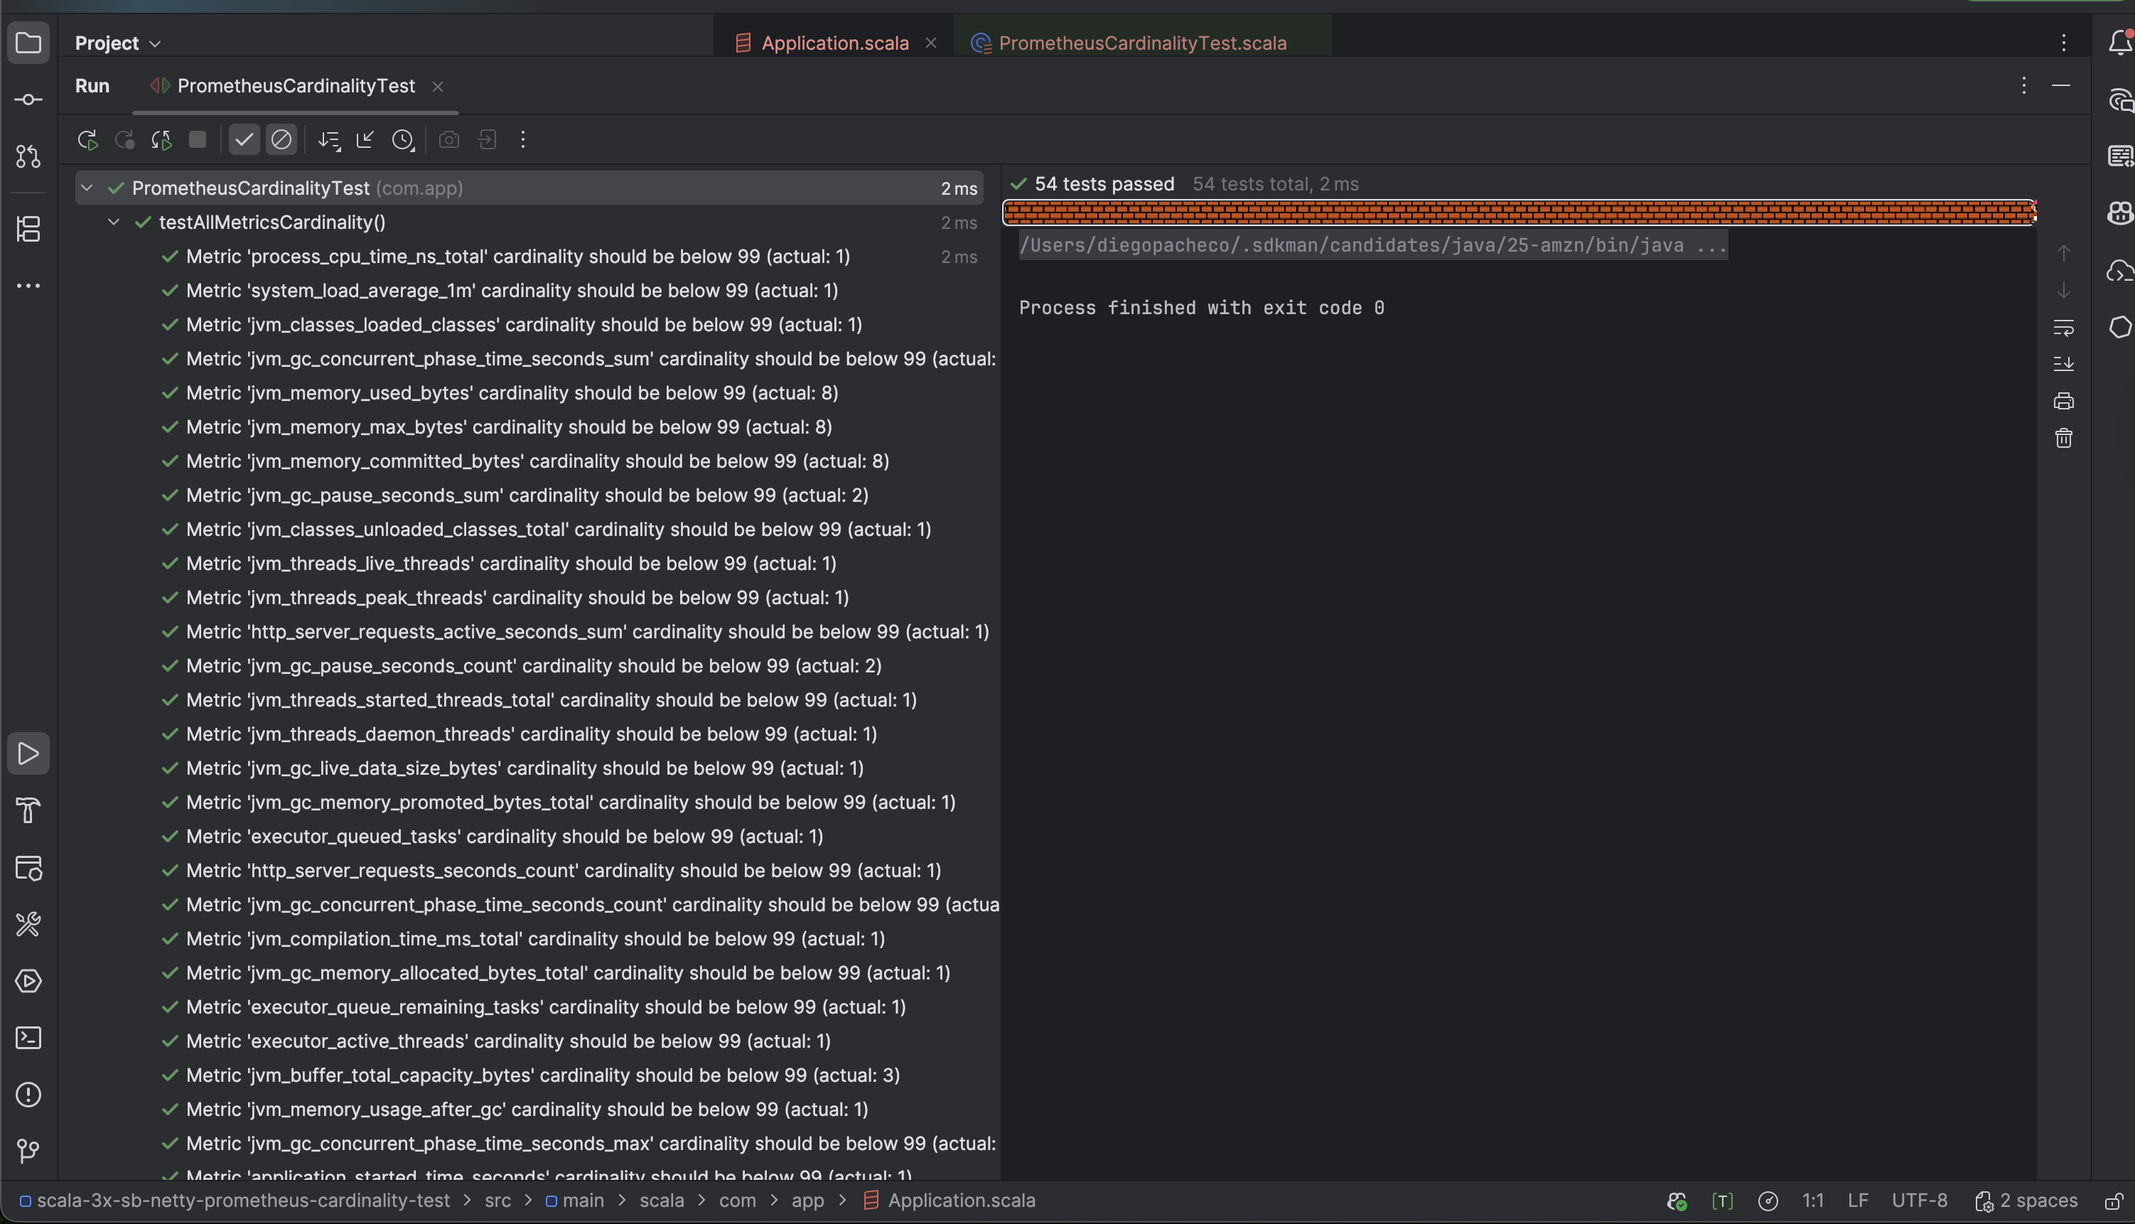
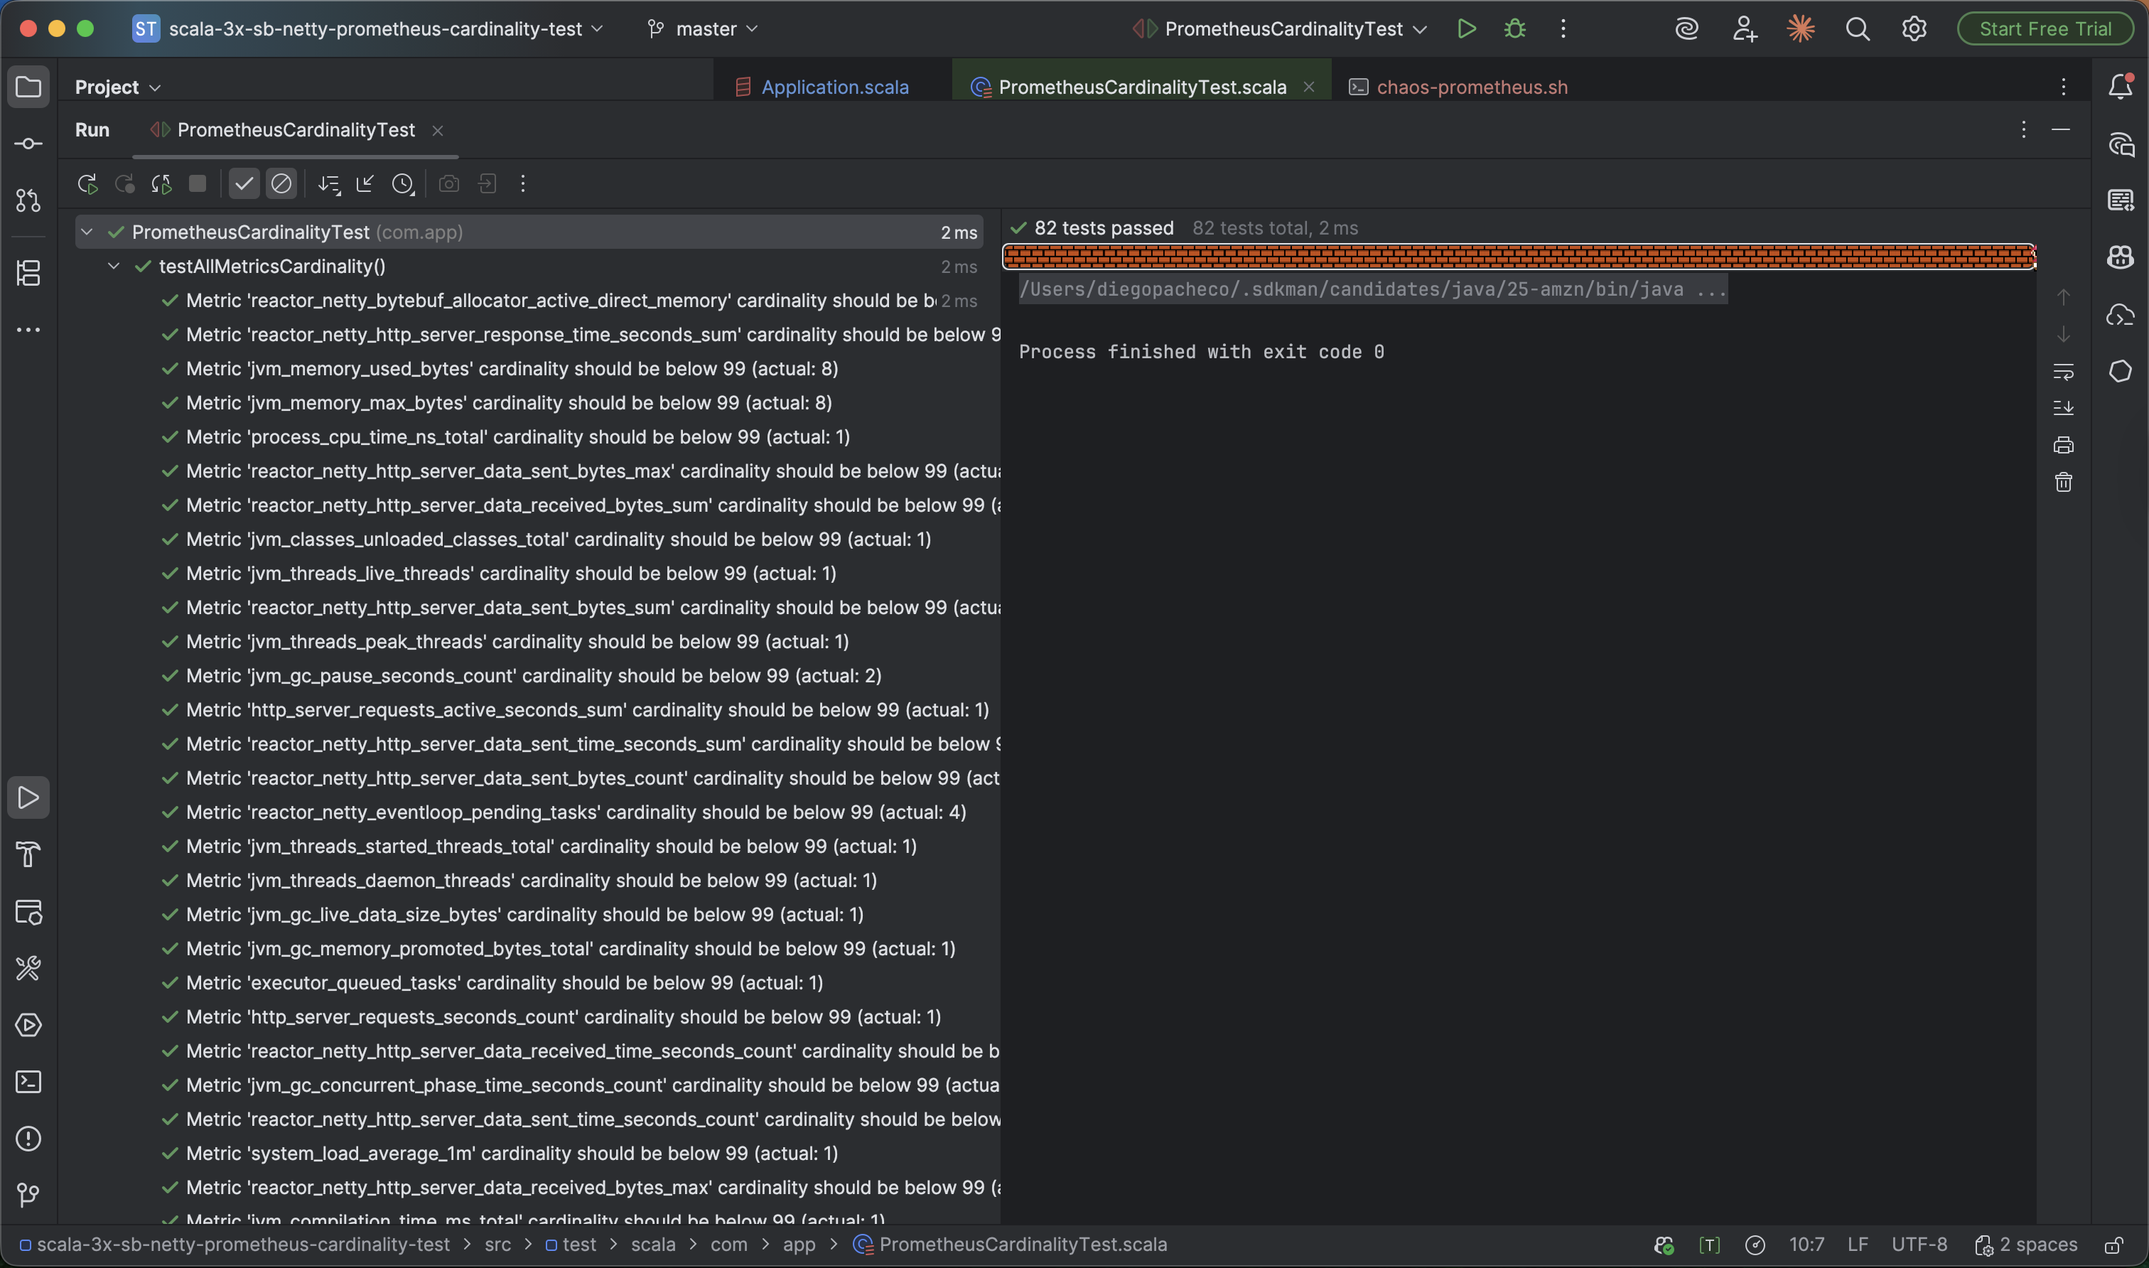
test metrics cardinality with dynamic tests

diff --git a/scala-3x-sb-netty-prometheus-cardinality-test/README.md b/scala-3x-sb-netty-prometheus-cardinality-test/README.md
@@ -1,3 +1,13 @@
+## Rationale
+
+IF you send too many high cardinality metrics to Prometheus, it will eventually crash consuming all memory.
+There is a Junit 5 dynamic tesat factory where:
+1. Call Prometheus endpoint in sprint to get all metrics
+2. Generate a test per mertric to check if the metric is acceptable cardinality where cardinality <= threshold(which is 99
+3. Profit - Now you can know if you will break prometheus before deploying anything.
+
+Tests is always the answer!
+
 ### Build
 
 ```
@@ -13,4 +23,289 @@ sbt run
 
 <img src="junit-dynamic-tests-cardinality.png" width="600" />
 
+### All Prometheus Metrics
 
+http://localhost:8081/prometheus
+```
+# HELP application_ready_time_seconds Time taken for the application to be ready to service requests
+# TYPE application_ready_time_seconds gauge
+application_ready_time_seconds{main_application_class="com.app.Application$package$"} 1.027
+# HELP application_started_time_seconds Time taken to start the application
+# TYPE application_started_time_seconds gauge
+application_started_time_seconds{main_application_class="com.app.Application$package$"} 1.025
+# HELP disk_free_bytes Usable space for path
+# TYPE disk_free_bytes gauge
+disk_free_bytes{path="/Users/diegopacheco/git/diegopacheco/scala-playground/scala-3x-sb-netty-prometheus-cardinality-test/."} 3.45157658624E12
+# HELP disk_total_bytes Total space for path
+# TYPE disk_total_bytes gauge
+disk_total_bytes{path="/Users/diegopacheco/git/diegopacheco/scala-playground/scala-3x-sb-netty-prometheus-cardinality-test/."} 3.99632932864E12
+# HELP executor_active_threads The approximate number of threads that are actively executing tasks
+# TYPE executor_active_threads gauge
+executor_active_threads{name="applicationTaskExecutor"} 0.0
+# HELP executor_completed_tasks_total The approximate total number of tasks that have completed execution
+# TYPE executor_completed_tasks_total counter
+executor_completed_tasks_total{name="applicationTaskExecutor"} 0.0
+# HELP executor_pool_core_threads The core number of threads for the pool
+# TYPE executor_pool_core_threads gauge
+executor_pool_core_threads{name="applicationTaskExecutor"} 8.0
+# HELP executor_pool_max_threads The maximum allowed number of threads in the pool
+# TYPE executor_pool_max_threads gauge
+executor_pool_max_threads{name="applicationTaskExecutor"} 2.147483647E9
+# HELP executor_pool_size_threads The current number of threads in the pool
+# TYPE executor_pool_size_threads gauge
+executor_pool_size_threads{name="applicationTaskExecutor"} 0.0
+# HELP executor_queue_remaining_tasks The number of additional elements that this queue can ideally accept without blocking
+# TYPE executor_queue_remaining_tasks gauge
+executor_queue_remaining_tasks{name="applicationTaskExecutor"} 2.147483647E9
+# HELP executor_queued_tasks The approximate number of tasks that are queued for execution
+# TYPE executor_queued_tasks gauge
+executor_queued_tasks{name="applicationTaskExecutor"} 0.0
+# HELP http_server_requests_active_seconds  
+# TYPE http_server_requests_active_seconds summary
+http_server_requests_active_seconds_count{exception="none",method="GET",outcome="SUCCESS",status="200",uri="UNKNOWN"} 1
+http_server_requests_active_seconds_sum{exception="none",method="GET",outcome="SUCCESS",status="200",uri="UNKNOWN"} 0.02786875
+# HELP http_server_requests_active_seconds_max  
+# TYPE http_server_requests_active_seconds_max gauge
+http_server_requests_active_seconds_max{exception="none",method="GET",outcome="SUCCESS",status="200",uri="UNKNOWN"} 0.028053584
+# HELP jvm_info JVM version info
+# TYPE jvm_info gauge
+jvm_info{runtime="OpenJDK Runtime Environment",vendor="Amazon.com Inc.",version="25+36-LTS"} 1
+# HELP jvm_buffer_count_buffers An estimate of the number of buffers in the pool
+# TYPE jvm_buffer_count_buffers gauge
+jvm_buffer_count_buffers{id="direct"} 4.0
+jvm_buffer_count_buffers{id="mapped"} 0.0
+jvm_buffer_count_buffers{id="mapped - 'non-volatile memory'"} 0.0
+# HELP jvm_buffer_memory_used_bytes An estimate of the memory that the Java virtual machine is using for this buffer pool
+# TYPE jvm_buffer_memory_used_bytes gauge
+jvm_buffer_memory_used_bytes{id="direct"} 4194312.0
+jvm_buffer_memory_used_bytes{id="mapped"} 0.0
+jvm_buffer_memory_used_bytes{id="mapped - 'non-volatile memory'"} 0.0
+# HELP jvm_buffer_total_capacity_bytes An estimate of the total capacity of the buffers in this pool
+# TYPE jvm_buffer_total_capacity_bytes gauge
+jvm_buffer_total_capacity_bytes{id="direct"} 4194311.0
+jvm_buffer_total_capacity_bytes{id="mapped"} 0.0
+jvm_buffer_total_capacity_bytes{id="mapped - 'non-volatile memory'"} 0.0
+# HELP jvm_classes_loaded_classes The number of classes that are currently loaded in the Java virtual machine
+# TYPE jvm_classes_loaded_classes gauge
+jvm_classes_loaded_classes 8871.0
+# HELP jvm_classes_unloaded_classes_total The number of classes unloaded in the Java virtual machine
+# TYPE jvm_classes_unloaded_classes_total counter
+jvm_classes_unloaded_classes_total 0.0
+# HELP jvm_compilation_time_ms_total The approximate accumulated elapsed time spent in compilation
+# TYPE jvm_compilation_time_ms_total counter
+jvm_compilation_time_ms_total{compiler="HotSpot 64-Bit Tiered Compilers"} 3169.0
+# HELP jvm_gc_concurrent_phase_time_seconds Time spent in concurrent phase
+# TYPE jvm_gc_concurrent_phase_time_seconds summary
+jvm_gc_concurrent_phase_time_seconds_count{action="end of concurrent GC pause",cause="No GC",gc="G1 Concurrent GC"} 4
+jvm_gc_concurrent_phase_time_seconds_sum{action="end of concurrent GC pause",cause="No GC",gc="G1 Concurrent GC"} 0.002
+# HELP jvm_gc_concurrent_phase_time_seconds_max Time spent in concurrent phase
+# TYPE jvm_gc_concurrent_phase_time_seconds_max gauge
+jvm_gc_concurrent_phase_time_seconds_max{action="end of concurrent GC pause",cause="No GC",gc="G1 Concurrent GC"} 0.001
+# HELP jvm_gc_live_data_size_bytes Size of long-lived heap memory pool after reclamation
+# TYPE jvm_gc_live_data_size_bytes gauge
+jvm_gc_live_data_size_bytes 0.0
+# HELP jvm_gc_max_data_size_bytes Max size of long-lived heap memory pool
+# TYPE jvm_gc_max_data_size_bytes gauge
+jvm_gc_max_data_size_bytes 3.2178700288E10
+# HELP jvm_gc_memory_allocated_bytes_total Incremented for an increase in the size of the (young) heap memory pool after one GC to before the next
+# TYPE jvm_gc_memory_allocated_bytes_total counter
+jvm_gc_memory_allocated_bytes_total 1.84549376E8
+# HELP jvm_gc_memory_promoted_bytes_total Count of positive increases in the size of the old generation memory pool before GC to after GC
+# TYPE jvm_gc_memory_promoted_bytes_total counter
+jvm_gc_memory_promoted_bytes_total 2.0533632E7
+# HELP jvm_gc_overhead An approximation of the percent of CPU time used by GC activities over the last lookback period or since monitoring began, whichever is shorter, in the range [0..1]
+# TYPE jvm_gc_overhead gauge
+jvm_gc_overhead 0.002379553149104899
+# HELP jvm_gc_pause_seconds Time spent in GC pause
+# TYPE jvm_gc_pause_seconds summary
+jvm_gc_pause_seconds_count{action="end of minor GC",cause="G1 Evacuation Pause",gc="G1 Young Generation"} 3
+jvm_gc_pause_seconds_sum{action="end of minor GC",cause="G1 Evacuation Pause",gc="G1 Young Generation"} 0.014
+jvm_gc_pause_seconds_count{action="end of minor GC",cause="Metadata GC Threshold",gc="G1 Young Generation"} 2
+jvm_gc_pause_seconds_sum{action="end of minor GC",cause="Metadata GC Threshold",gc="G1 Young Generation"} 0.004
+# HELP jvm_gc_pause_seconds_max Time spent in GC pause
+# TYPE jvm_gc_pause_seconds_max gauge
+jvm_gc_pause_seconds_max{action="end of minor GC",cause="G1 Evacuation Pause",gc="G1 Young Generation"} 0.005
+jvm_gc_pause_seconds_max{action="end of minor GC",cause="Metadata GC Threshold",gc="G1 Young Generation"} 0.002
+# HELP jvm_memory_committed_bytes The amount of memory in bytes that is committed for the Java virtual machine to use
+# TYPE jvm_memory_committed_bytes gauge
+jvm_memory_committed_bytes{area="heap",id="G1 Eden Space"} 5.0331648E7
+jvm_memory_committed_bytes{area="heap",id="G1 Old Gen"} 5.0331648E7
+jvm_memory_committed_bytes{area="heap",id="G1 Survivor Space"} 1.6777216E7
+jvm_memory_committed_bytes{area="nonheap",id="CodeHeap 'non-nmethods'"} 3342336.0
+jvm_memory_committed_bytes{area="nonheap",id="CodeHeap 'non-profiled nmethods'"} 2555904.0
+jvm_memory_committed_bytes{area="nonheap",id="CodeHeap 'profiled nmethods'"} 8781824.0
+jvm_memory_committed_bytes{area="nonheap",id="Compressed Class Space"} 5767168.0
+jvm_memory_committed_bytes{area="nonheap",id="Metaspace"} 4.0042496E7
+# HELP jvm_memory_max_bytes The maximum amount of memory in bytes that can be used for memory management
+# TYPE jvm_memory_max_bytes gauge
+jvm_memory_max_bytes{area="heap",id="G1 Eden Space"} -1.0
+jvm_memory_max_bytes{area="heap",id="G1 Old Gen"} 3.2178700288E10
+jvm_memory_max_bytes{area="heap",id="G1 Survivor Space"} -1.0
+jvm_memory_max_bytes{area="nonheap",id="CodeHeap 'non-nmethods'"} 7602176.0
+jvm_memory_max_bytes{area="nonheap",id="CodeHeap 'non-profiled nmethods'"} 1.22044416E8
+jvm_memory_max_bytes{area="nonheap",id="CodeHeap 'profiled nmethods'"} 1.22011648E8
+jvm_memory_max_bytes{area="nonheap",id="Compressed Class Space"} 1.073741824E9
+jvm_memory_max_bytes{area="nonheap",id="Metaspace"} -1.0
+# HELP jvm_memory_usage_after_gc The percentage of long-lived heap pool used after the last GC event, in the range [0..1]
+# TYPE jvm_memory_usage_after_gc gauge
+jvm_memory_usage_after_gc{area="heap",pool="long-lived"} 3.556591129402423E-4
+# HELP jvm_memory_used_bytes The amount of used memory
+# TYPE jvm_memory_used_bytes gauge
+jvm_memory_used_bytes{area="heap",id="G1 Eden Space"} 0.0
+jvm_memory_used_bytes{area="heap",id="G1 Old Gen"} 1.1444648E7
+jvm_memory_used_bytes{area="heap",id="G1 Survivor Space"} 6269464.0
+jvm_memory_used_bytes{area="nonheap",id="CodeHeap 'non-nmethods'"} 2048576.0
+jvm_memory_used_bytes{area="nonheap",id="CodeHeap 'non-profiled nmethods'"} 1521728.0
+jvm_memory_used_bytes{area="nonheap",id="CodeHeap 'profiled nmethods'"} 7969664.0
+jvm_memory_used_bytes{area="nonheap",id="Compressed Class Space"} 5574256.0
+jvm_memory_used_bytes{area="nonheap",id="Metaspace"} 3.9500864E7
+# HELP jvm_threads_daemon_threads The current number of live daemon threads
+# TYPE jvm_threads_daemon_threads gauge
+jvm_threads_daemon_threads 10.0
+# HELP jvm_threads_live_threads The current number of live threads including both daemon and non-daemon threads
+# TYPE jvm_threads_live_threads gauge
+jvm_threads_live_threads 12.0
+# HELP jvm_threads_peak_threads The peak live thread count since the Java virtual machine started or peak was reset
+# TYPE jvm_threads_peak_threads gauge
+jvm_threads_peak_threads 12.0
+# HELP jvm_threads_started_threads_total The total number of application threads started in the JVM
+# TYPE jvm_threads_started_threads_total counter
+jvm_threads_started_threads_total 15.0
+# HELP jvm_threads_states_threads The current number of threads
+# TYPE jvm_threads_states_threads gauge
+jvm_threads_states_threads{state="blocked"} 0.0
+jvm_threads_states_threads{state="new"} 0.0
+jvm_threads_states_threads{state="runnable"} 8.0
+jvm_threads_states_threads{state="terminated"} 0.0
+jvm_threads_states_threads{state="timed-waiting"} 2.0
+jvm_threads_states_threads{state="waiting"} 2.0
+# HELP logback_events_total Number of log events that were enabled by the effective log level
+# TYPE logback_events_total counter
+logback_events_total{level="debug"} 0.0
+logback_events_total{level="error"} 0.0
+logback_events_total{level="info"} 2.0
+logback_events_total{level="trace"} 0.0
+logback_events_total{level="warn"} 0.0
+# HELP process_cpu_time_ns_total The "cpu time" used by the Java Virtual Machine process
+# TYPE process_cpu_time_ns_total counter
+process_cpu_time_ns_total 4.934422E9
+# HELP process_cpu_usage The "recent cpu usage" for the Java Virtual Machine process
+# TYPE process_cpu_usage gauge
+process_cpu_usage 0.0
+# HELP process_files_max_files The maximum file descriptor count
+# TYPE process_files_max_files gauge
+process_files_max_files 1048576.0
+# HELP process_files_open_files The open file descriptor count
+# TYPE process_files_open_files gauge
+process_files_open_files 131.0
+# HELP process_start_time_seconds Start time of the process since unix epoch.
+# TYPE process_start_time_seconds gauge
+process_start_time_seconds 1.763711926629E9
+# HELP process_uptime_seconds The uptime of the Java virtual machine
+# TYPE process_uptime_seconds gauge
+process_uptime_seconds 5.538
+# HELP reactor_netty_bytebuf_allocator_active_direct_memory  
+# TYPE reactor_netty_bytebuf_allocator_active_direct_memory gauge
+reactor_netty_bytebuf_allocator_active_direct_memory{id="580914454",type="pooled"} 0.0
+# HELP reactor_netty_bytebuf_allocator_active_heap_memory  
+# TYPE reactor_netty_bytebuf_allocator_active_heap_memory gauge
+reactor_netty_bytebuf_allocator_active_heap_memory{id="580914454",type="pooled"} 0.0
+# HELP reactor_netty_bytebuf_allocator_chunk_size  
+# TYPE reactor_netty_bytebuf_allocator_chunk_size gauge
+reactor_netty_bytebuf_allocator_chunk_size{id="580914454",type="pooled"} 4194304.0
+# HELP reactor_netty_bytebuf_allocator_direct_arenas  
+# TYPE reactor_netty_bytebuf_allocator_direct_arenas gauge
+reactor_netty_bytebuf_allocator_direct_arenas{id="580914454",type="pooled"} 32.0
+# HELP reactor_netty_bytebuf_allocator_heap_arenas  
+# TYPE reactor_netty_bytebuf_allocator_heap_arenas gauge
+reactor_netty_bytebuf_allocator_heap_arenas{id="580914454",type="pooled"} 32.0
+# HELP reactor_netty_bytebuf_allocator_normal_cache_size  
+# TYPE reactor_netty_bytebuf_allocator_normal_cache_size gauge
+reactor_netty_bytebuf_allocator_normal_cache_size{id="580914454",type="pooled"} 64.0
+# HELP reactor_netty_bytebuf_allocator_small_cache_size  
+# TYPE reactor_netty_bytebuf_allocator_small_cache_size gauge
+reactor_netty_bytebuf_allocator_small_cache_size{id="580914454",type="pooled"} 256.0
+# HELP reactor_netty_bytebuf_allocator_threadlocal_caches  
+# TYPE reactor_netty_bytebuf_allocator_threadlocal_caches gauge
+reactor_netty_bytebuf_allocator_threadlocal_caches{id="580914454",type="pooled"} 1.0
+# HELP reactor_netty_bytebuf_allocator_used_direct_memory  
+# TYPE reactor_netty_bytebuf_allocator_used_direct_memory gauge
+reactor_netty_bytebuf_allocator_used_direct_memory{id="580914454",type="pooled"} 4194304.0
+# HELP reactor_netty_bytebuf_allocator_used_heap_memory  
+# TYPE reactor_netty_bytebuf_allocator_used_heap_memory gauge
+reactor_netty_bytebuf_allocator_used_heap_memory{id="580914454",type="pooled"} 0.0
+# HELP reactor_netty_eventloop_pending_tasks  
+# TYPE reactor_netty_eventloop_pending_tasks gauge
+reactor_netty_eventloop_pending_tasks{name="reactor-http-nio-2"} 0.0
+reactor_netty_eventloop_pending_tasks{name="reactor-http-nio-3"} 0.0
+# HELP reactor_netty_http_server_connections  
+# TYPE reactor_netty_http_server_connections gauge
+reactor_netty_http_server_connections{local_address="0:0:0:0:0:0:0:1:8081",uri="http"} 2.0
+# HELP reactor_netty_http_server_connections_active  
+# TYPE reactor_netty_http_server_connections_active gauge
+reactor_netty_http_server_connections_active{local_address="0:0:0:0:0:0:0:1:8081",uri="http"} 1.0
+# HELP reactor_netty_http_server_data_received_time_seconds  
+# TYPE reactor_netty_http_server_data_received_time_seconds summary
+reactor_netty_http_server_data_received_time_seconds_count{method="GET",uri="/prometheus"} 1
+reactor_netty_http_server_data_received_time_seconds_sum{method="GET",uri="/prometheus"} 0.033637625
+# HELP reactor_netty_http_server_data_received_time_seconds_max  
+# TYPE reactor_netty_http_server_data_received_time_seconds_max gauge
+reactor_netty_http_server_data_received_time_seconds_max{method="GET",uri="/prometheus"} 0.033637625
+# HELP system_cpu_count The number of processors available to the Java virtual machine
+# TYPE system_cpu_count gauge
+system_cpu_count 16.0
+# HELP system_cpu_usage The "recent cpu usage" of the system the application is running in
+# TYPE system_cpu_usage gauge
+system_cpu_usage 0.0
+# HELP system_load_average_1m The sum of the number of runnable entities queued to available processors and the number of runnable entities running on the available processors averaged over a period of time
+# TYPE system_load_average_1m gauge
+system_load_average_1m 3.32470703125
+```
+
+## Run Chaos 
+
+Terminal 1
+```
+./run.sh
+```
+
+Terminal 2
+```
+./run-chaos.sh
+```
+```
+❯ ./chaos-prometheus.sh
+Starting chaos test - generating 200 unique requests per endpoint...
+Completed 20 requests per endpoint...
+Completed 40 requests per endpoint...
+Completed 60 requests per endpoint...
+Completed 80 requests per endpoint...
+Completed 100 requests per endpoint...
+Completed 120 requests per endpoint...
+Completed 140 requests per endpoint...
+Completed 160 requests per endpoint...
+Completed 180 requests per endpoint...
+Completed 200 requests per endpoint...
+Chaos test completed! Generated 600 total unique requests (200 per endpoint)
+Check metrics at: http://localhost:8081/prometheus
+```
+
+<img src="junit-dynamic-tests-cardinality-after-CHAOS.png" width="600" />
+
+Now several metrics blow up to the roof like (15/82 metrics/tests fail):
+* reactor_netty_http_server_data_received_time_seconds_max (601)
+* reactor_netty_http_server_data_sent_time_seconds_sum (601)
+* reactor_netty_http_server_data_received_time_seconds_sum (601)
+* reactor_netty_http_server_data_sent_bytes_count (601)
+* reactor_netty_http_server_response_time_seconds_sum (601)
+* reactor_netty_http_server_response_time_seconds_max (601)
+* reactor_netty_http_server_data_sent_time_seconds_max (601)
+* reactor_netty_http_server_data_received_bytes_count (601)
+* reactor_netty_http_server_response_time_seconds_count (601
+* reactor_netty_http_server_data_received_time_seconds_max (601)
+* reactor_netty_http_server_data_received_bytes_max (601)
+* reactor_netty_http_server_data_sent_time_seconds_count (601)
+* reactor_netty_http_server_data_received_time_seconds_count (601)
+* reactor_netty_http_server_data_sent_bytes_sum (601)
+
+IF you dont generate some load you wont see the issue - so chaos matters !!!
